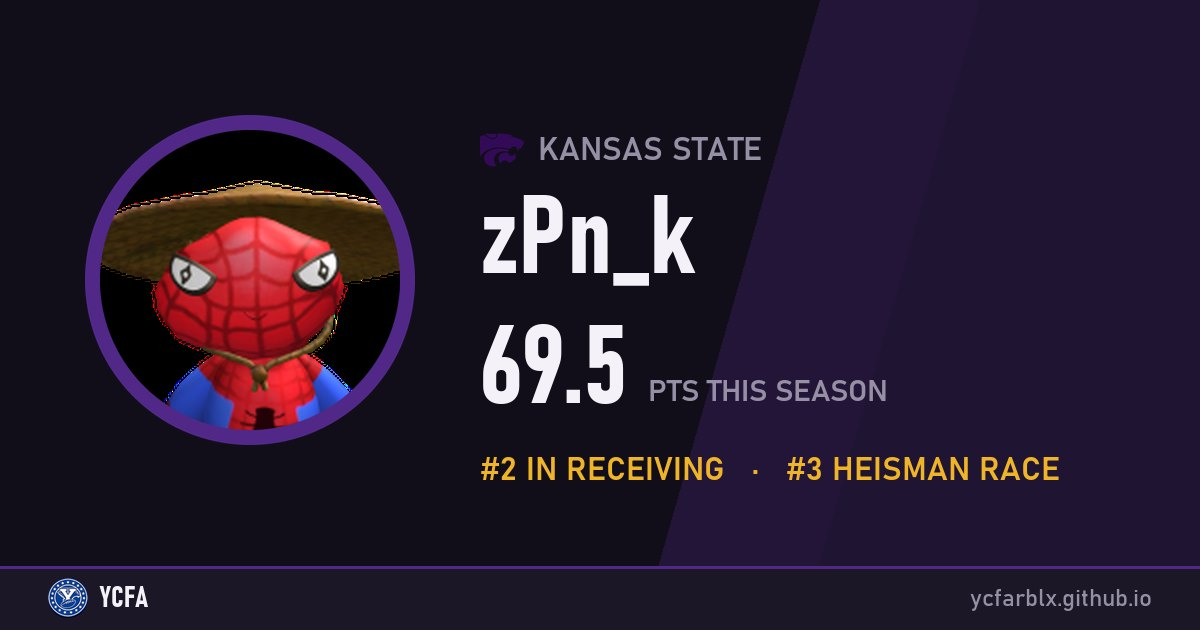
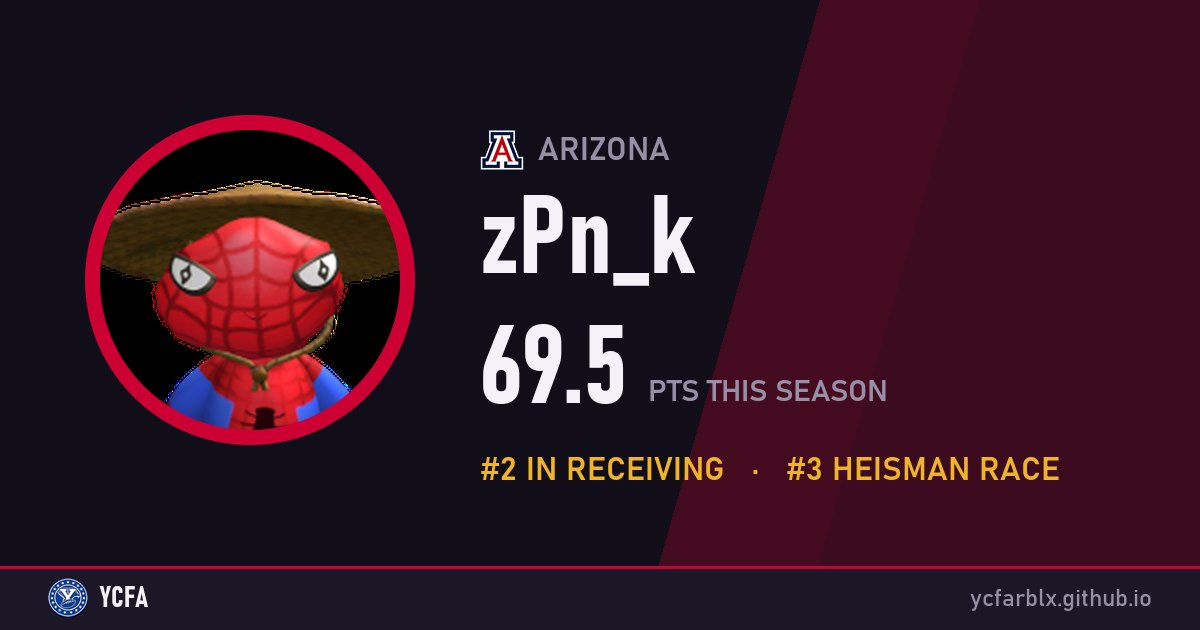
Stats update 2026-11-25 20:55

diff --git a/player/zpn_k/index.html b/player/zpn_k/index.html
@@ -5,20 +5,20 @@
   <meta name="viewport" content="width=device-width, initial-scale=1, viewport-fit=cover">
   <!--meta:start-->
   <title>zPn_k · YCFA</title>
-  <meta name="description" content="DB / DL / WR · Kansas State · 69.5 PTS in season 1 · #2 In Receiving   ·   #3 Heisman Race. Stats, game log and career highs.">
-  <meta name="theme-color" content="#512888">
+  <meta name="description" content="DB / DL / WR · Arizona · 69.5 PTS in season 1 · #2 In Receiving   ·   #3 Heisman Race. Stats, game log and career highs.">
+  <meta name="theme-color" content="#cc0033">
   <meta property="og:site_name" content="YCFA">
   <meta property="og:type" content="website">
   <meta property="og:title" content="zPn_k · YCFA">
-  <meta property="og:description" content="DB / DL / WR · Kansas State · 69.5 PTS in season 1 · #2 In Receiving   ·   #3 Heisman Race. Stats, game log and career highs.">
+  <meta property="og:description" content="DB / DL / WR · Arizona · 69.5 PTS in season 1 · #2 In Receiving   ·   #3 Heisman Race. Stats, game log and career highs.">
   <meta property="og:url" content="https://ycfarblx.github.io/player/zpn_k">
-  <meta property="og:image" content="https://ycfarblx.github.io/og/player-zpn_k.jpg?v=ddd96b5a7f">
+  <meta property="og:image" content="https://ycfarblx.github.io/og/player-zpn_k.jpg?v=c918ad8b1f">
   <meta property="og:image:width" content="1200">
   <meta property="og:image:height" content="630">
   <meta name="twitter:card" content="summary_large_image">
   <meta name="twitter:title" content="zPn_k · YCFA">
-  <meta name="twitter:description" content="DB / DL / WR · Kansas State · 69.5 PTS in season 1 · #2 In Receiving   ·   #3 Heisman Race. Stats, game log and career highs.">
-  <meta name="twitter:image" content="https://ycfarblx.github.io/og/player-zpn_k.jpg?v=ddd96b5a7f">
+  <meta name="twitter:description" content="DB / DL / WR · Arizona · 69.5 PTS in season 1 · #2 In Receiving   ·   #3 Heisman Race. Stats, game log and career highs.">
+  <meta name="twitter:image" content="https://ycfarblx.github.io/og/player-zpn_k.jpg?v=c918ad8b1f">
   <!--meta:end-->
   <link rel="icon" href="/img/favicon.png">
   <link rel="apple-touch-icon" href="/img/apple-touch-icon.png">

diff --git a/game/3/index.html b/game/3/index.html
@@ -12,13 +12,13 @@
   <meta property="og:title" content="Kansas State 21, Houston 0 · Final · YCFA">
   <meta property="og:description" content="Houston forfeited. Kansas State gets the forfeit win (FFW), Houston the forfeit loss (FFL).">
   <meta property="og:url" content="https://ycfarblx.github.io/game/3">
-  <meta property="og:image" content="https://ycfarblx.github.io/og/game-3.jpg?v=84ac7e5f13">
+  <meta property="og:image" content="https://ycfarblx.github.io/og/game-3.jpg?v=4428eb4be8">
   <meta property="og:image:width" content="1200">
   <meta property="og:image:height" content="630">
   <meta name="twitter:card" content="summary_large_image">
   <meta name="twitter:title" content="Kansas State 21, Houston 0 · Final · YCFA">
   <meta name="twitter:description" content="Houston forfeited. Kansas State gets the forfeit win (FFW), Houston the forfeit loss (FFL).">
-  <meta name="twitter:image" content="https://ycfarblx.github.io/og/game-3.jpg?v=84ac7e5f13">
+  <meta name="twitter:image" content="https://ycfarblx.github.io/og/game-3.jpg?v=4428eb4be8">
   <!--meta:end-->
   <link rel="icon" href="/img/favicon.png">
   <link rel="apple-touch-icon" href="/img/apple-touch-icon.png">
